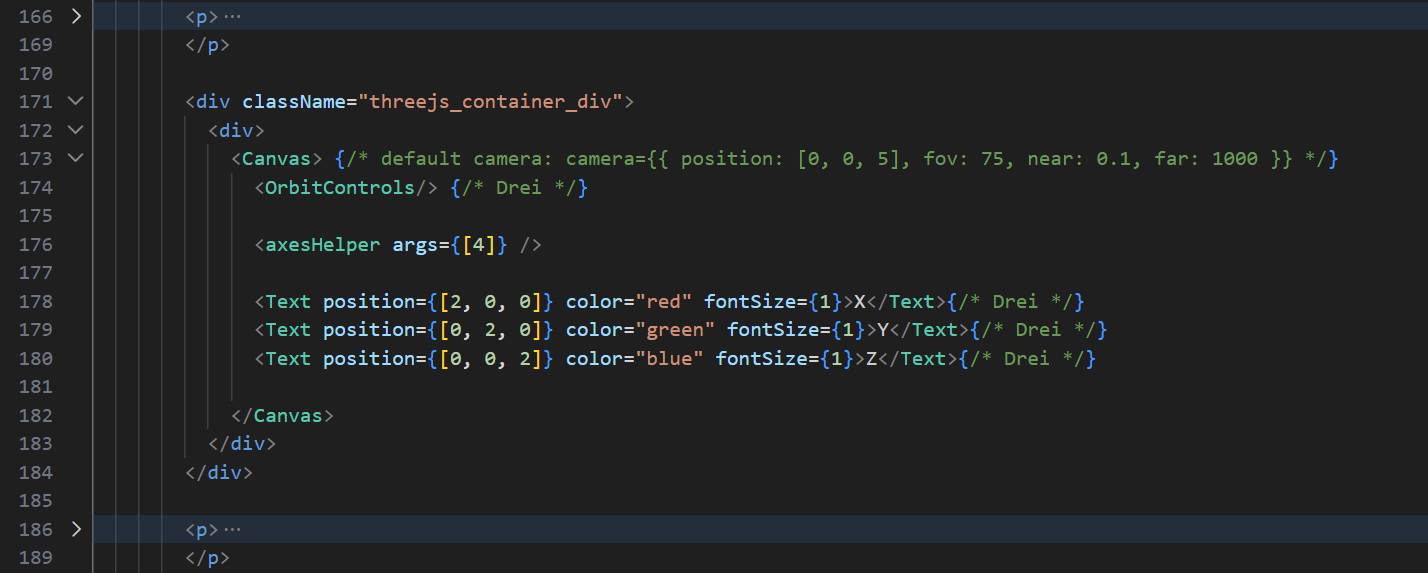
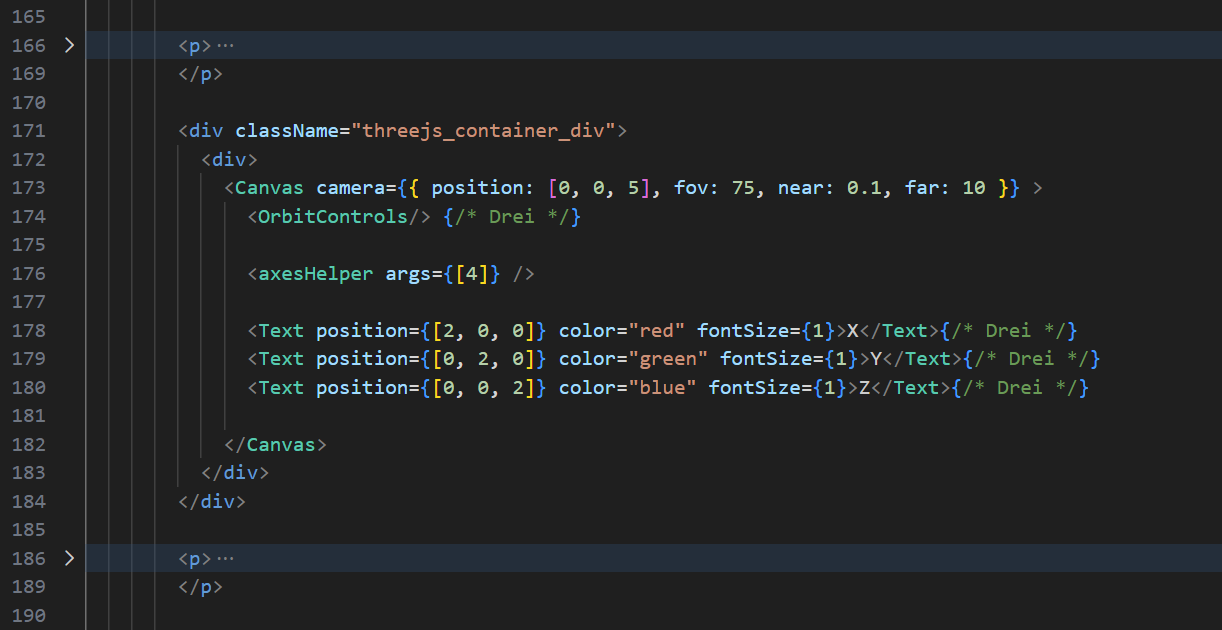
work

Changed region(s): [[0.0, 0.0, 1.0, 1.0], [0.1555, 0.5044, 0.9018, 0.6527], [0.1555, 0.4154, 0.4354, 0.445]]

diff --git a/src/pages/threejs.tsx b/src/pages/threejs.tsx
@@ -1,5 +1,5 @@
 import { OrbitControls, Text } from "@react-three/drei"
-import { canvas_example, fibre_syntax, gsap, r3f, threejs_syntax } from "../constants"
+import { canvas_example, fibre_syntax, gsap, meshBasic_flat, meshBasic_withoutFlat, meshStandard_flat, meshStandard_withoutFlat, r3f, threejs_syntax } from "../constants"
 
 import { Canvas } from '@react-three/fiber'
 
@@ -160,7 +160,7 @@ function ThreeJS(){
 
 
       <div className="content_container">
-        <h2>ThreeJS Syntax (Fibre)</h2>
+        <h2><span className="component_syntax">{"<Canvas/>"}</span> - ThreeJS Fibre Syntax</h2>
         <small>Fibre usage</small>
 
         <p>
@@ -190,6 +190,37 @@ function ThreeJS(){
 
         <div className="media_item_container">
           <img src={canvas_example}/>
+        </div>
+
+        <p>
+          The Canvas tag can take several variables as input. First, the camera values which define the starting position, rotation, field of view (shoud be between 35° and 75°), and the near and far values 
+          which define at what distances objects should be rendered and unrendered (pick your own). Not rendering objects past a certain distance does 
+          save on performance. Objects that are not seen through the camera are also not rendered until they come into view so to further save performance. This is a 
+          default behaviour.
+          <br/>
+          <br/>
+          You can also define whether your camera is "orthoraphic", so objects that are farther away are not smaller. This is the 
+          perspective used on top-down RTS games. Finally, we can apply the "flat" variable which changes color application in scenes.
+          This makes <span className="threejs_material_basic">meshBasic</span> and <span className="threejs_material_toon">meshToon</span> objects "pop" more in color, but also makes the color of 
+          other materials like <span className="threejs_material_standard">meshStandard</span> more flat.
+        </p>
+
+        <p>
+          <b><span className="threejs_material_basic">meshBasic</span> with and without flat:</b>
+        </p>
+
+        <div className="media_item_container_splitImgs">
+          <img src={meshBasic_flat}/>
+          <img src={meshBasic_withoutFlat}/>
+        </div>
+
+        <p>
+          <b><span className="threejs_material_standard">meshStandard</span> with and without flat:</b>
+        </p>
+
+        <div className="media_item_container_splitImgs">
+          <img src={meshStandard_flat}/>
+          <img src={meshStandard_withoutFlat}/>
         </div>
       
       </div>

diff --git a/src/constants.tsx b/src/constants.tsx
@@ -242,6 +242,12 @@ import fibresyntax from './assets/Days/2/fibre_syntax.png';
 import react3f from './assets/Days/2/r3f.png';
 import gsp from './assets/Days/2/gsap.png';
 import canvasEx from './assets/Days/2/canvas_example.png';
+import meshBasicflat from './assets/Days/2/withFlat_meshbasic_scene.png';
+import meshBasicWithoutflat from './assets/Days/2/withoutFlat_meshbasic.png';
+import meshStandardflat from './assets/Days/2/withFlat_meshstandard_scene.png';
+import meshStandardWithoutflat from './assets/Days/2/withoutFlat_meshstandard_scene.png';
+
+
 
 
 export const threejs_syntax = threejssyntax;
@@ -249,3 +255,7 @@ export const fibre_syntax = fibresyntax;
 export const r3f = react3f;
 export const gsap = gsp;
 export const canvas_example = canvasEx;
+export const meshBasic_flat = meshBasicflat;
+export const meshBasic_withoutFlat = meshBasicWithoutflat;
+export const meshStandard_flat = meshStandardflat;
+export const meshStandard_withoutFlat = meshStandardWithoutflat

diff --git a/src/pages/tutorial_page.css b/src/pages/tutorial_page.css
@@ -69,7 +69,7 @@
   object-fit:contain;
 }
 
-.media_item_container{
+.media_item_container, .media_item_container_splitImgs{
   padding-block: 25px;
   display: flex;
   justify-content: center;
@@ -84,6 +84,23 @@
   aspect-ratio: 16/9;
   border: none;
 }
+
+.media_item_container_splitImgs{
+  gap: 20px;
+}
+
+.media_item_container_splitImgs img{
+  width: 50%;
+  border-radius: 12px;
+}
+
+
+
+
+
+
+
+
 
 .threejs_material_basic, .threejs_material_standard, .threejs_material_phong, .threejs_material_toon, .threejs_material_depth, .threejs_material_phyiscal{
   border-radius: 3px;
@@ -167,6 +184,12 @@
     width: 85%;
   }
   .content_container_divide p{
+    width: 100%;
+  }
+  .media_item_container_splitImgs{
+    flex-direction: column;
+  }
+  .media_item_container_splitImgs img{
     width: 100%;
   }
 }
